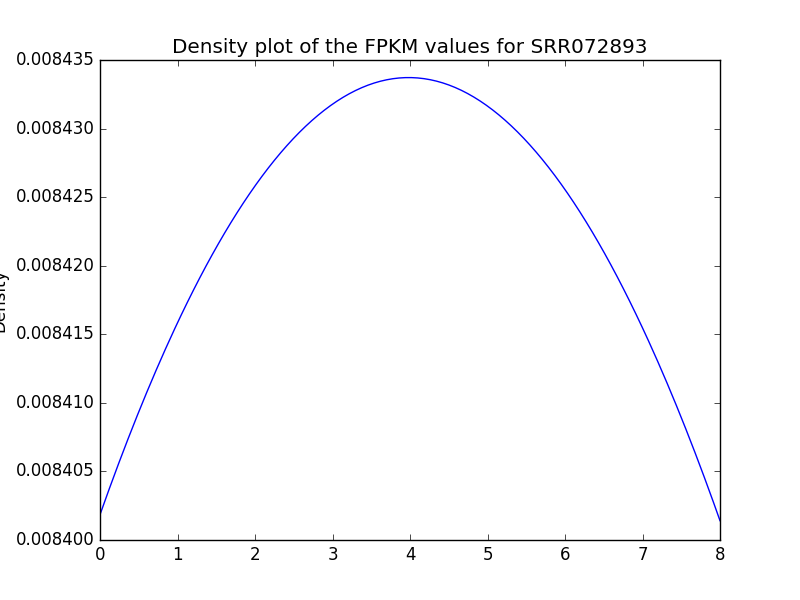
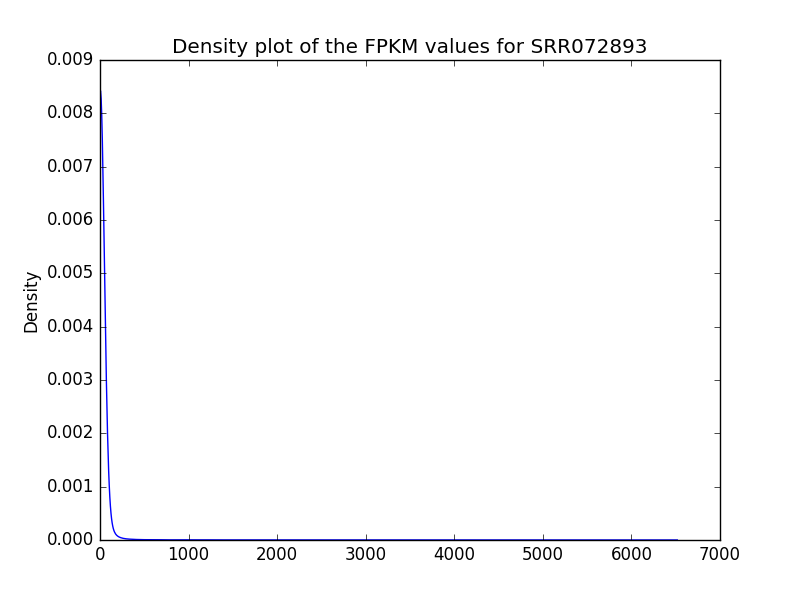
number 4 revised

diff --git a/day4-afternoon/05-densityPlot.py b/day4-afternoon/05-densityPlot.py
@@ -6,15 +6,6 @@ Function: reate a histogram of the FPKM values for a ctab file
 
 usage: ./03-histogram.py <datafile.ctab>
 
-I could also try to make the plot a bit smaller so you can see all of the y axis lable.
-
-I wanted to use seaborn but I couldn't figure out how to install it:
-
-import seaborn as sns
-data = df[ "FPKM" ]
-sns.set_style('whitegrid')
-sns.kdeplot(np.array(data), bw=0.5)
-plt.show()
 
 """
 
@@ -31,7 +22,7 @@ df = pd.read_table( sys.argv[1])
 #Plot data
 data = df[ "FPKM" ]
 density = gaussian_kde(data)
-xs = np.linspace(0,8,200)
+xs = np.linspace( np.min(data), np.max(data) , 1000)
 density.covariance_factor = lambda : .5
 density._compute_covariance()
 plt.figure()
